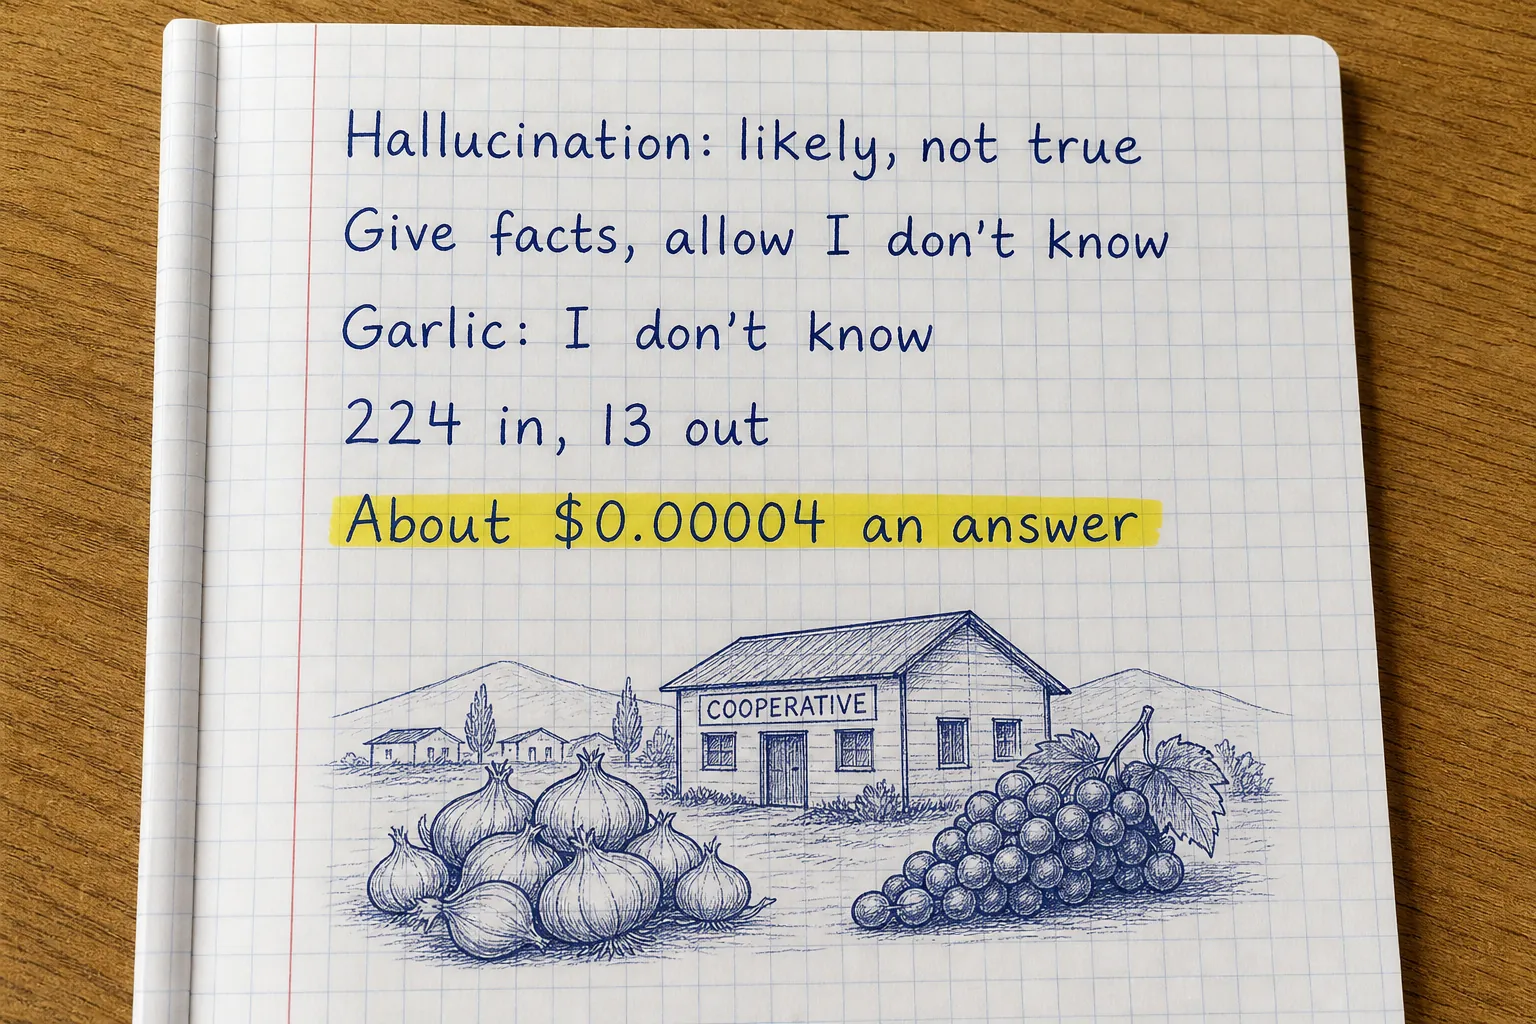
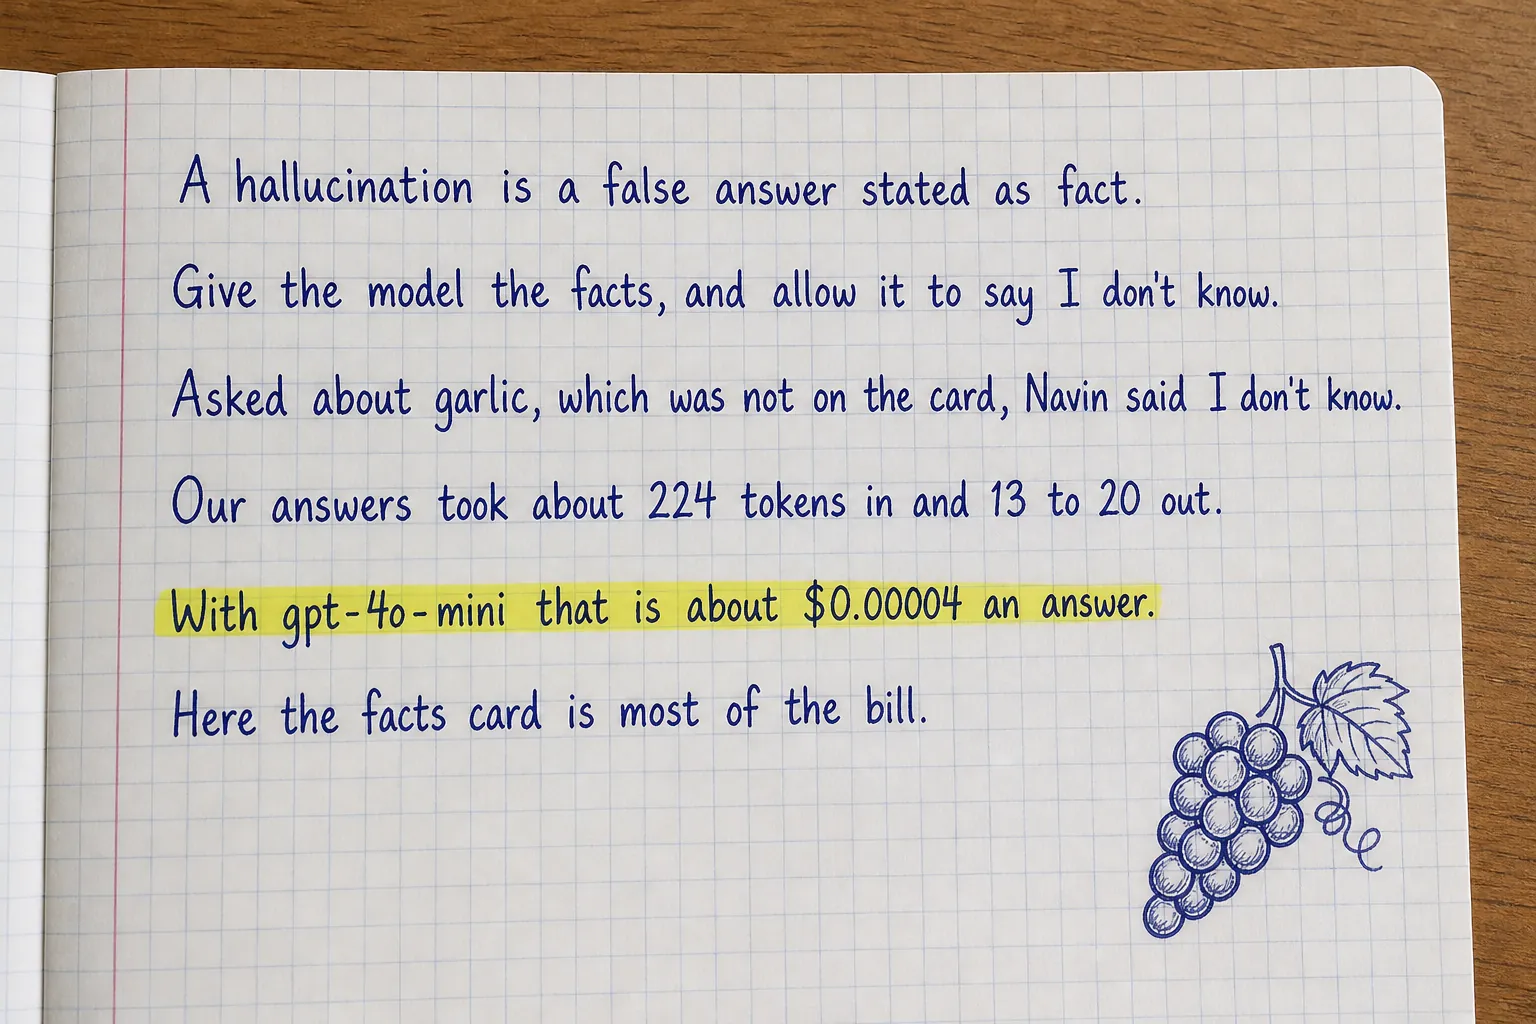
LangChain chapter 9 rewritten: plain and fuller, costs recomputed from a live run, claims checked and corrected

diff --git a/labs/langchain/chapters/09-hallucinations.md b/labs/langchain/chapters/09-hallucinations.md
@@ -4,9 +4,10 @@ In chapter 6 Navin told a member, with complete confidence, that the co-op does 
 rules is worse than no help desk: a farmer who believes it may sell a harvest in a hurry, or pick grapes too early
 after spraying.
 
-This is called **hallucination**, and it is the most important thing to design around in any AI application. The
-model is not lying; it produces likely text, and a likely-sounding answer is not the same as a true one. Two defences
-work together: **give the model the facts**, and **give it permission to say "I don't know"**.
+This is called **hallucination**: the model states something false as if it were fact. It is one of the most important
+things to design around in any AI application. The model is not lying; it produces likely text (chapter 4), and a
+likely-sounding answer is not the same as a true one. Two defences work together: **give the model the facts** (this is called **grounding** an answer), and **give it
+permission to say "I don't know"**.
 
 And since every answer has a price, this chapter also reads the bill: tokens in, tokens out, dollars.
 
@@ -28,9 +29,9 @@ Fluent writing used to be a sign that someone knew what they were talking about.
 :::
 
 In **2023**, in the case **Mata v. Avianca** in New York, two lawyers filed a brief citing court decisions that did not
-exist: ChatGPT had invented them, with names, dates and quotes. The judge fined them in June 2023. In **February 2024** a
-Canadian tribunal ordered Air Canada to honour a bereavement refund policy its website chatbot had invented
-(**Moffatt v. Air Canada**): the airline argued the chatbot was responsible for its own words, and lost. The lesson for
+exist: ChatGPT had invented them, with names, dates and quotes. The judge fined them in June 2023. In **February 2024** a Canadian tribunal ordered Air Canada to pay a passenger the refund its website chatbot had
+wrongly promised under the airline's bereavement-fare policy (**Moffatt v. Air Canada**): the airline argued that
+the chatbot was responsible for its own words, and lost. The lesson for
 every company: **your assistant's words are your words**.
 
 :::solved
@@ -45,8 +46,8 @@ but it turns most invented answers into honest ones.
 :::
 
 :::step{type=concept title="Facts in the prompt, and permission not to know" file="09-hallucinations/honest.py" line="5-22"}
-The co-op's facts (`FACTS`) are a short card: office hours, today's mandi rates, cold storage prices, loans, and the
-spraying rule. The honest prompt is three parts:
+The co-op's facts (`FACTS`) are a short card: office hours, today's **mandi** rates (the mandi is the wholesale market;
+rates are per **quintal**, 100 kg), cold storage prices, loans, and the spraying rule. The honest prompt is three parts:
 
 ```text
 <who Navin is: SYSTEM>
@@ -66,8 +67,14 @@ question; Part 4 (retrieval) sends only the parts that matter.
 :::
 
 :::step{type=task task=honest_prompt title="Your turn: the honest prompt" file="09-hallucinations/honest.py" line="19-23"}
-Finish `honest_prompt()`: return `SYSTEM`, then the "I don't know" instruction (exactly those words), then a blank line,
-`Facts:` and `FACTS`.
+Finish `honest_prompt()`: return one string made of, in order:
+
+1. `SYSTEM`;
+2. the "I don't know" instruction, exactly as shown above (both sentences);
+3. a blank line, then `Facts:` on its own line, then `FACTS`.
+
+The usual slip: forgetting the space between `SYSTEM` and the instruction, so two sentences run together
+("...simple words.If the answer...").
 
 Press **Check**.
 :::
@@ -79,8 +86,8 @@ Every `AIMessage` has `usage_metadata`:
 reply.usage_metadata   # {'input_tokens': 224, 'output_tokens': 13, 'total_tokens': 237, ...}
 ```
 
-gpt-4o-mini costs **$0.15 per million input tokens** and **$0.60 per million output tokens**: output is four times
-dearer, because each output token is one full pass through the model (chapter 4).
+gpt-4o-mini costs **$0.15 per million input tokens** and **$0.60 per million output tokens**: output is four times dearer (OpenAI's list prices, November 2026). A large part of the reason: the question is read
+in one pass, but each output token needs its own pass through the model (chapter 4).
 
 | | Tokens | Price per million | Cost |
 |---|---|---|---|
@@ -93,8 +100,12 @@ made Navin honest, and they are also most of its bill.
 :::
 
 :::step{type=task task=answer_cost title="Your turn: the cost of an answer" file="09-hallucinations/honest.py" line="31-35"}
-Finish `answer_cost(reply)`: input tokens times `INPUT_PER_MILLION`, plus output tokens times `OUTPUT_PER_MILLION`,
-divided by one million.
+Finish `answer_cost(reply)`:
+
+1. `usage = reply.usage_metadata`.
+2. Return `(usage["input_tokens"] * INPUT_PER_MILLION + usage["output_tokens"] * OUTPUT_PER_MILLION) / 1_000_000`.
+
+The usual slip: dividing only the output part by a million (brackets matter).
 
 ```bash run
 cd /workspace/09-hallucinations && python main.py
@@ -104,6 +115,9 @@ Press **Check**.
 :::
 
 :::step{type=try title="Right, honest, and careful"}
+A real run (we ran it again on 25 November: the same answers, except the grapes one said "You must wait 10 days.",
+one token shorter):
+
 ```text
 $ python main.py
 > What is today's onion rate?
@@ -123,8 +137,8 @@ Three questions, three behaviours you want. The onion rate came from the facts. 
 said "I don't know" and pointed to the office instead of inventing a rate. And the spraying question got the co-op's
 rule, applied to the member's situation: 4 days is not 10.
 
-The cost: about **$0.00004** an answer. If every member asked ten questions a day, 1,000 members would cost about
-$0.43 a day. Cheap, but notice that it scales with the facts card: double the card, nearly double the bill. That is
+The cost: about **$0.00004** an answer. If every member asked ten questions a day, 1,000 members would cost about $0.43
+a day (10,000 answers at about $0.000043 each, the average of these three). Cheap, but notice that it scales with the facts card: double the card, nearly double the bill. That is
 the cost argument for retrieval in Part 4.
 :::
 
@@ -173,7 +187,8 @@ how often Navin gets a set of known questions right.
 with each answer.
 
 **Prompt caching.** Providers discount input tokens that repeat at the start of every request (like a long facts card),
-which lowers exactly the cost this chapter found.
+which lowers exactly the cost this chapter found. OpenAI does it automatically, but only for prompts of at least
+1,024 tokens, so Navin's 224-token card is not discounted yet.
 :::
 
 :::step{type=recap}
@@ -186,7 +201,7 @@ You can now:
 
 That ends Part 2. Next, chapter 10: an agent built by hand, a model that can ask your Python code for help.
 
-:::photo{src="/lesson-images/langchain/lc-09-notes.webp" alt="Handwritten notes about hallucinations and cost: Hallucination: likely, not true; Give facts, allow I don't know; Garlic: I don't know; 224 in, 13 out; About $0.00004 an answer" ai="true"}
+:::photo{src="/lesson-images/langchain/lc-09-notes.webp" alt="Handwritten notes about hallucinations and cost: A hallucination is a false answer stated as fact. Give the model the facts, and allow it to say I don't know. Asked about garlic, which was not on the card, Navin said I don't know. Our answers took about 224 tokens in and 13 to 20 out. With gpt-4o-mini that is about /bin/bash.00004 an answer. Here the facts card is most of the bill." ai="true"}
 One page of notes for this chapter.
 :::
 :::

diff --git a/CHANGELOG.md b/CHANGELOG.md
@@ -1,5 +1,15 @@
 # Changelog
 
+## 25 November: LangChain chapter 9 rewritten (easy, a little detailed, checked)
+
+- Hallucination, grounding, mandi and quintal are explained where they first appear; both tasks list their steps and
+  the usual slips.
+- Checked by running the three questions through the lab gateway: the same three behaviours, the same token counts
+  (224 in, 13 to 20 out) and costs ($0.0000414 recomputed; about $0.43 a day for 10,000 answers). Corrected: Air Canada's
+  chatbot wrongly promised a refund under the real bereavement-fare policy (it did not invent a policy); "output costs
+  more because each token is a pass" became "a large part of the reason", with dated prices; OpenAI's automatic prompt
+  caching starts at 1,024 tokens, so it does not yet help Navin's 224-token card. A new notes page.
+
 ## 25 November: LangChain chapter 8 rewritten (easy, a little detailed, checked)
 
 - Parameters and chunks are explained where they first appear; both tasks list their steps and the usual slips.

diff --git a/REWRITE_LIST.md b/REWRITE_LIST.md
@@ -11,7 +11,7 @@ Status: **1 of 23 labs done** (13 of 319 chapters).
 | # | Lab | Title | Chapters | Status | Done on |
 |---|---|---|---|---|---|
 | 1 | rag-vector-databases | RAG and vector databases | 13 | done (13 of 13) | 25 Nov |
-| 2 | langchain | LangChain | 27 | in progress (6 of 27) | |
+| 2 | langchain | LangChain | 27 | in progress (9 of 27) | |
 | 3 | langchain4j | LangChain4j | 30 | not started | |
 | 4 | langgraph | LangGraph | 24 | not started | |
 | 5 | spring-ai | Spring AI | 20 | not started | |
